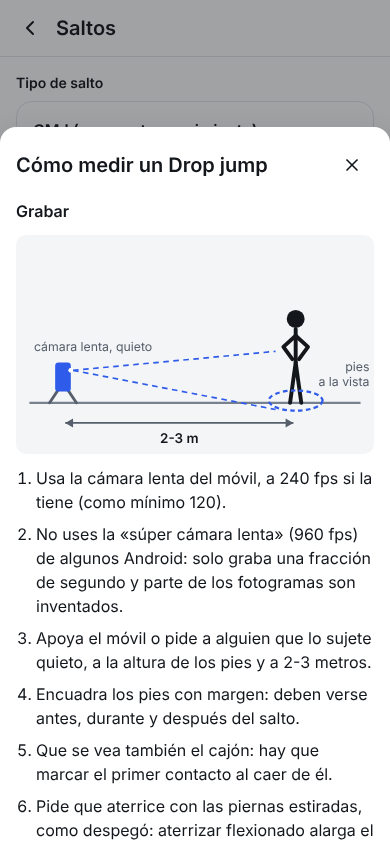
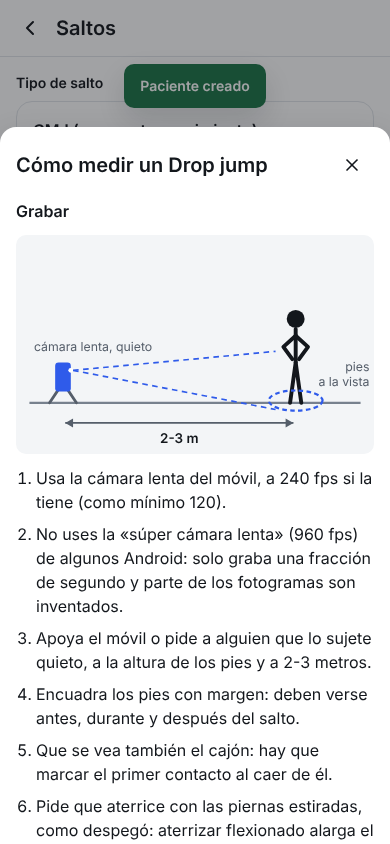
docs: real-video test, bugs 005-006, parity 13/13 must-haves
Claude-Session: https://claude.ai/code/session_01G9nty65PnptzEigT52PGBK

Changed region(s): [[0.3077, 0.0616, 0.7077, 0.154]]

diff --git a/replica/parity.md b/replica/parity.md
@@ -1,20 +1,22 @@
 # Paridad con My Jump Lab
 
-Fecha: 2026-10-17 · Actualizado tras construir PWA y ayuda ilustrada
+Fecha: 2026-10-17 · Tras probar con un vídeo real del Pixel 7 Pro de Fisiolab
 
-## Veredicto: **no publicable todavía**
+## Veredicto: **fase 1 completa; la copia completa todavía no**
 
-Falta 1 must-have: probar con un vídeo real del iPhone (depende de Fisiolab). No hay fallos S1 ni S2 abiertos
-(ver `replica/bugs.md`).
+Los 13 must-haves están hechos y no hay fallos S1 ni S2 abiertos (`replica/bugs.md`). Por la regla del
+método, «publicable» pide además 80 puntos de paridad y hay 46,4: faltan las fases 2-4 (fuerza, sprint,
+carrera, movilidad, nórdico, bienestar y el resto de saltos). Por eso está publicada como **versión de
+prueba** para saltos (CMJ, SJ, DJ), no como sustituto de My Jump Lab.
 
 | medida | valor |
 | --- | --- |
-| **Paridad total de funciones** | **44,6 / 100** (39 funciones puntuables) |
-| Must-haves | 12 de 13 completos, 1 a medias → 96,2 % |
-| Fase 1 (saltos) | casi completa; fases 2-4 sin empezar |
+| **Paridad total de funciones** | **46,4 / 100** (39 funciones puntuables) |
+| Must-haves | **13 de 13** |
+| Fase 1 (saltos) | completa; fases 2-4 sin empezar |
 | Paridad de pantallas (layout) | **sin medir**: no hay capturas del original |
 
-El 45 % es honesto: la app completa de My Jump Lab tiene fuerza, sprint, carrera, movilidad,
+El 46 % es honesto: la app completa de My Jump Lab tiene fuerza, sprint, carrera, movilidad,
 nórdico y bienestar, y aquí solo están los saltos básicos. Es lo previsto en el plan por fases
 del recon, no un retraso.
 
@@ -42,9 +44,8 @@ marcado del vídeo y resultado. Las del clon ya están en `replica/clone-screens
 
 ## Qué falta, en orden de construcción
 
-Must-haves (bloquean la publicación):
-1. **Vídeo real del iPhone**: comprobar los fps reales y la reproducción (lo tiene que grabar Fisiolab).
-   Hechos el 2026-10-17: PWA instalable y sin conexión; ayuda con ilustraciones propias.
+Must-haves: ninguno pendiente. Hechos el 2026-10-17: PWA instalable y sin conexión; ayuda con
+ilustraciones; vídeo real del móvil (Pixel 7 Pro, 120 fps guardado a 30: 30,7 cm).
 
 Fase 2, saltos (should): perfil fuerza-velocidad, asimetría unipodal, RSI-mod, CMJ con brazos,
 10-5, salto horizontal, rigidez y DRI (estas dos tras confirmar la fórmula en el artículo).
@@ -55,20 +56,18 @@ Could: S-MAS, sprint curvo, deceleración, idiomas, IA.
 
 ## Las cinco siguientes cosas a construir
 
-1. Prueba con un vídeo real del iPhone de Fisiolab y ajustes que salgan de ella (must).
-2. Protocolo de validación: medir 10-20 saltos a la vez con el clon y con My Jump Lab (o plataforma)
-   y anotar la diferencia media; pantalla o CSV para registrarlo (propio, should).
-3. Perfil fuerza-velocidad (fase 2).
-4. Asimetría entre piernas con salto unipodal (fase 2).
-5. RSI-mod y CMJ con brazos libres (fase 2, pequeños).
+1. Validación: 10-20 saltos medidos a la vez con la app y con My Jump Lab (u otra referencia), y una forma de
+   registrar la diferencia (propio, should).
+2. Perfil fuerza-velocidad (fase 2).
+3. Asimetría entre piernas con salto unipodal (fase 2).
+4. RSI-mod y CMJ con brazos libres (fase 2, pequeños).
+5. Saltos repetidos 10-5 (fase 2).
 
 ## Salida completa de parity.py
 
-### Parity: 44.6 / 100
+### Parity: 46.4 / 100
 
-features 44.6  (39 counted, must-haves 12 of 13 done)
-
-Not shippable yet: 1 must-have features are not done.
+features 46.4  (39 counted, must-haves 13 of 13 done)
 
 ### By area, weakest first
 - fuerza                         0.0  (3 features)
@@ -81,13 +80,12 @@ Not shippable yet: 1 must-have features are not done.
 - ajustes                        0.0  (1 features)
 - saltos                        42.9  (12 features)
 - historial                     60.0  (2 features)
-- vídeo                         75.0  (2 features)
 - pacientes                    100.0  (3 features)
+- vídeo                        100.0  (2 features)
 - datos                        100.0  (2 features)
 - ayuda                        100.0  (1 features)
 
 ### Missing, in build order
-- [must] vídeo: Subir vídeo a cámara lenta y detectar sus fps, partial  (grabar desde la web no es fiable: se graba con la cámara del móvil y se sube; S06; lee fps del MP4/MOV y permite indicar los de grabación; probado con vídeos sintéticos, falta un vídeo real de iPhone)
 - [should] bienestar: Cuestionario de bienestar (sueño fatiga estrés agujetas), no
 - [should] carrera: Mecánica de carrera (contacto vuelo frecuencia de paso), no
 - [should] fuerza: Perfil carga-velocidad y 1RM estimado, no

diff --git a/replica/bugs.md b/replica/bugs.md
@@ -1,6 +1,6 @@
 # Fallos
 
-Abiertos: ninguno. S1: 0 · S2: 1 (arreglado) · S3: 3 (arreglados) · S4: 1 (arreglado).
+Abiertos: ninguno. S1: 0 · S2: 2 (arreglados) · S3: 3 (arreglados) · S4: 2 (arreglados).
 
 ### BUG-000: «Cargar datos de ejemplo» podía dejar la carga a medias
 
@@ -83,8 +83,40 @@ Actual: el foco se queda en el botón (se buscaba el campo antes de pintar los e
 Evidence: F01-E1 «toBeFocused» falló.
 Status: fixed in 0497972
 
+### BUG-005: en vídeos reales se veía el fotograma siguiente al marcado
+
+- Severity: S2
+- Flow / case: F02 / F02-E10
+- Screen: S07
+- Build: e3f013f  Browser / device: Chromium 1194, 412 px; vídeo real de Pixel 7 Pro (120 fps guardado a 30)
+
+Steps
+1. Subir el vídeo del Pixel y llevar la barra al fotograma 211 (también 271 y 400).
+2. Comparar la imagen con el fotograma 211 extraído con ffmpeg.
+
+Expected: se ve el fotograma 211.
+Actual: se veía el 212 (y el 272, el 401). El salto entre fotogramas se calculaba con 30 fps exactos y el
+archivo va a 30,08 fps con irregularidades de 31-36 ms: a partir de ~190 fotogramas el error es de uno. En
+este salto no cambió la altura (las dos marcas se movían igual), pero en otros podía mover una marca
+8 ms (~1 cm).
+Evidence: comparación de imágenes app/ffmpeg; F02-E10 falla en la versión anterior (pide 300, ve 301).
+Status: fixed in ed5d1d0 (hora real de cada fotograma desde el índice del archivo y calibración con requestVideoFrameCallback)
+
+### BUG-006: los avisos tapaban los botones de marcar
+
+- Severity: S4
+- Flow / case: F02 / F01-E7
+- Screen: S07 y todas
+- Build: e3f013f  Browser / device: Chromium 1194, 412 px
+
+Steps
+1. Crear un paciente y empezar enseguida un salto.
+
+Expected: el aviso «Paciente creado» no tapa nada importante.
+Actual: durante 4 s quedaba encima del botón «Despegue».
+Evidence: captura del marcado con el vídeo real.
+Status: fixed in 3f13bec (avisos arriba, bajo la barra de título)
+
 ## Por comprobar (no reproducido)
 
-- Cómo llega un vídeo a cámara lenta del iPhone al elegirlo desde Safari (fps reales o convertido): pasada manual M1-M2.
-- Sin conexión la app no abre: es esperado hasta hacerla instalable (PWA); no es un fallo, es trabajo pendiente.
-- Safari puede borrar los datos de una web no instalada tras 7 días sin uso: mismo trabajo pendiente.
+- Reproducción de vídeos HEVC (H.265) en el Chrome del móvil: el Pixel 7 Pro graba en HEVC y el Chromium de las pruebas no lo reproduce; la prueba se hizo con el mismo vídeo convertido a VP9 (mismos 412 fotogramas y horas). Pasada manual M1.

diff --git a/replica/build-log.md b/replica/build-log.md
@@ -14,7 +14,7 @@ S01 también a 1440 px. Capturas en `replica/clone-screens/`.
 | S03 Paciente nuevo/editar | 2026-10-17 | hecho | — | validar con coma decimal y los mismos rangos que la base |
 | S04 Selector de test | 2026-10-17 | hecho | las categorías de fases 2-4 llevan a "próximamente" | — |
 | S05 Configurar salto | 2026-10-17 | hecho | — | — |
-| S06 Vídeo | 2026-10-17 | parcial | probar con un vídeo real de iPhone (Safari) | los vídeos a cámara lenta pueden venir "ralentizados" a 30 fps: hay que separar los fps del archivo (para moverse por el vídeo) de los de grabación (para calcular) |
+| S06 Vídeo | 2026-10-17 | hecho | ver el vídeo HEVC reproducirse en el Chrome del móvil | los vídeos a cámara lenta pueden venir "ralentizados" a 30 fps: hay que separar los fps del archivo (para moverse por el vídeo) de los de grabación (para calcular) |
 | S07 Marcado | 2026-10-17 | hecho | — | las marcas de un salto quedan muy juntas en la barra: hizo falta una lupa |
 | S08 Resultado | 2026-10-17 | hecho | — | — |
 | S22 Evolución | 2026-10-17 | hecho | — | — |
@@ -30,3 +30,6 @@ Notas:
   de datos en Ajustes. Iconos provisionales hasta /replica-brand (`tools/build-icons.py`).
 - Pendiente de comprobar en un iPhone real: instalación desde Safari y que los datos persisten instalada.
 - El paquete inicial pesa ~370 KB; las gráficas y el lector de vídeo se cargan solo al usarlos.
+- Vídeo real (2026-10-17, Pixel 7 Pro): cámara lenta a 120 fps guardada a 30 fps en HEVC, 412 fotogramas a un ritmo
+  irregular (media 30,08 fps) y con la etiqueta com.android.capture.fps. Llevó a leer esa etiqueta (S06 propone 120
+  solo) y a moverse por la hora real de cada fotograma (BUG-005). Medido en la app: 30,7 cm.

diff --git a/replica/deploy.md b/replica/deploy.md
@@ -7,10 +7,10 @@ Tipo de publicación propuesta: **versión de prueba** para el móvil Android de
 
 ## Preflight
 
-- [x] Pruebas e2e: **42 / 42** en Chromium móvil, contra un servidor que aplica la misma CSP y cabeceras que Cloudflare (`tools/serve-dist.mjs`)
-- [x] Pruebas unitarias: **26 / 26** (fórmulas, base de datos, lectura de vídeo)
-- [x] Sin fallos S1 ni S2 abiertos (`replica/bugs.md`: 5 encontrados, 5 arreglados)
-- [ ] Paridad: must-haves **12 / 13**, puntuación 44,6. Falta «vídeo real del móvil», que **solo se puede cerrar con la app publicada**: por eso se propone como versión de prueba
+- [x] Pruebas e2e: **45 / 45** en Chromium móvil, contra un servidor que aplica la misma CSP y cabeceras que Cloudflare (`tools/serve-dist.mjs`)
+- [x] Pruebas unitarias: **33 / 33** (fórmulas, base de datos, lectura de vídeo)
+- [x] Sin fallos S1 ni S2 abiertos (`replica/bugs.md`: 7 encontrados, 7 arreglados)
+- [x] Paridad: must-haves **13 / 13** (el último, vídeo real del móvil, cerrado con un vídeo del Pixel 7 Pro de Fisiolab). Puntuación en `replica/parity.md`
 - [x] Barrido de marca limpio: `sweep.py . --config replica/brand.json` → exit 0 (ni nombre, ni dominios del original)
 - [x] Ficha de tienda: no aplica (no va a tiendas: es una web instalable)
 - [x] Build de producción: pasa (`npm run build`) y `wrangler deploy --dry-run` lee 33 archivos
